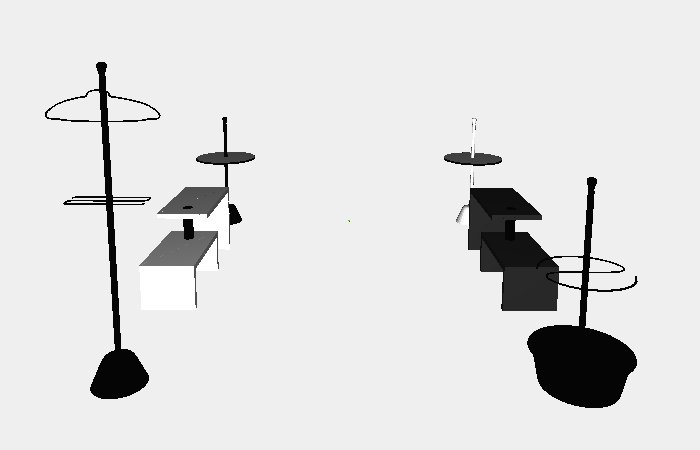
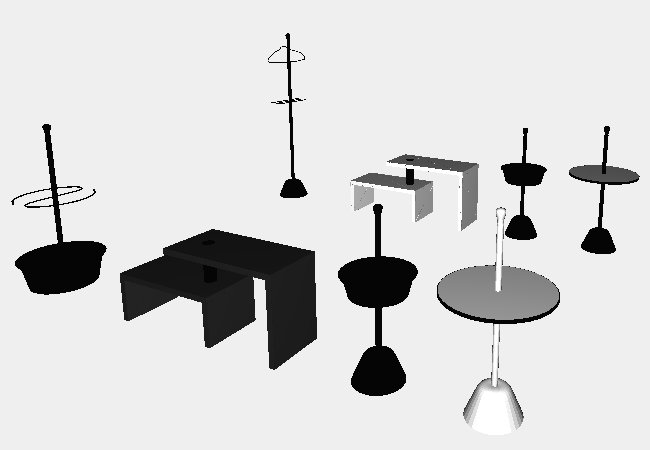
complete project

Changed region(s): [[0.5231, 0.28, 0.9846, 0.9644], [0.0, 0.1244, 0.4923, 0.9022], [0.4308, 0.0622, 0.4923, 0.4667]]

diff --git a/zanotta.html b/zanotta.html
@@ -34,14 +34,13 @@
                 <h3>Fantastic 12</h3>
                   <IMG SRC="./images/fantastic12.jpg">
                     <p> A very special family, useful and innovative, timeless, as of the Servi designed by the Castiglioni for Zanotta. A success that continues today.
-                    Among all furniture complements of modern design, the series of the Servi di Achille Castiglioni and PierGiacomo is undoubtedly the most popular. Developed over two decades from 1961, this collection is still very timely. The Milanese designers conceived the series as a functional, minimalist and strong and fit to "serve" domestic spaces but also the public, a modular, removable, modular. Homogeneous in progress. A single polypropylene base, a steel rod that acts as a high or low support and some accessories that hold, carry, contain, report. The colors: black, white and aluminum. The first to be born in '61, by the extraordinary compositional skill of the Castiglioni brothers were the two founders and Servofumo Servopluvio, respectively, a floor ashtray and an umbrella stand essential. With only four pieces, the designers built the two complements: a rod, a base, a curved rod and a pool that acts as a water collection for umbrellas in a bathtub and the ash in the other. They conceived that, as is often the designers who do not find what they need on the market, to furnish the restaurant and brewery Splügenpass of Milan. He followed the Servomuto (design 1974, shelf laminated plastic or rigid polyurethane white or black, with a rod "prehensile"), which was the first to go into production in '75, followed by 80 <A HREF="./servomuto.html">- Servomuto </A> and Servopluvio and then the other of the "family".
-
-                    Zanotta introduced him that year at the Salone del Mobile: few understood it immediately, but then conquered the market.Like the other ten Servants that drew Castiglioni until 1987. Many of these objects have fallen into over the years in the permanent collections of up to 7 museums in the world of design. </p>
+                    Among all furniture complements of modern design, the series of the Servi di Achille Castiglioni and PierGiacomo is undoubtedly the most popular. Developed over two decades from 1961, this collection is still very timely. The Milanese designers conceived the series as a functional, minimalist and strong and fit to "serve" domestic spaces but also the public, a modular, removable, modular. Homogeneous in progress. A single polypropylene base, a steel rod that acts as a high or low support and some accessories that hold, carry, contain, report. The colors: black, white and aluminum. The first to be born in '61, by the extraordinary compositional skill of the Castiglioni brothers were the two founders and Servofumo Servopluvio, respectively, a floor ashtray and an umbrella stand essential. With only four pieces, the designers built the two complements: a rod, a base, a curved rod and a pool that acts as a water collection for umbrellas in a bathtub and the ash in the other. They conceived that, as is often the designers who do not find what they need on the market, to furnish the restaurant and brewery Splügenpass of Milan. He followed the Servomuto (design 1974, shelf laminated plastic or rigid polyurethane white or black, with a rod "prehensile"), which was the first to go into production in '75, followed by 80 <A HREF="./servomuto.html">- Servomuto </A> and <A HREF="./servopluvio.html">- Servopluvio </A> and then the other of the "family".Zanotta introduced him that year at the Salone del Mobile: few understood it immediately, but then conquered the market.Like the other ten Servants that drew Castiglioni until 1987. Many of these objects have fallen into over the years in the permanent collections of up to 7 museums in the world of design. </p>
                   </div>
                   <br/>
                 <div ALIGN="justify">
                 <h3> 3D modelling </h3>
                 <p> I chose to draw some models of the Servi's family: <br/>
+                    <A HREF="./servofumo.html">- Servofumo </A><br/>
                     <A HREF="./servomuto.html">- Servomuto </A> <br/>
                     <A HREF="./servonotte.html">- Servonotte </A>  <br/>
                     <A HREF="./servopluvio.html">- Servopluvio </A> <br/>
@@ -61,6 +60,7 @@
                 <h3>ZANOTTA Design</h3>
                   <p>
                     <A HREF="./basello.html">- Basello </A> <br/>
+                    <A HREF="./servofumo.html">- Servofumo </A> <br/>
                     <A HREF="./servomuto.html">- Servomuto </A> <br/>
                     <A HREF="./servonotte.html">- Servonotte </A>  <br/>
                     <A HREF="./servopluvio.html">- Servopluvio </A> <br/><br/>

diff --git a/servofumo.html b/servofumo.html
@@ -18,7 +18,7 @@
             <div class="inner">
 
               <header>
-                <h1>Servonotte, designed by Achille Castiglioni</h1>
+                <h1>Servofumo, designed by Achille Castiglioni</h1>
                 <h2>Computer Graphics Final Project</h2>
                 <h3>3D modeling by Davide Razzino</h3>
               </header>
@@ -31,28 +31,27 @@
 
               <section id="main_content">
                 <div ALIGN="justify">
-                <h3>Servonotte</h3>
-                  <IMG SRC="./images/ServoNotte.jpg" ALIGN="RIGHT">
-                    <p> Servonotte is part of the Castiglioni Servi family. The clothes stand is designed with a polypropylene base and steel frame, available in the following colours: black, aluminium or white.</p>
+                <h3>Servofumo</h3>
+                  <IMG SRC="./images/servofumo.jpg" ALIGN="RIGHT">
+                    <p> Servofumo is an ashtray which is part of the Castiglioni family of Servi furniture. With a base in black polypropylene or painted aluminium, and black or aluminium colour painted steel support rod and aluminium sand container. The ash-tray has a black or aluminium colour painted steel rhomboid mesh which can be removed to clean the sand. </p>
                   </div>
-                  <br/><br/><br/>
+                  <br/><br/><br/><br/><br/>
                 <div ALIGN="justify">
                 <h3> 3D modelling </h3>
-                <p> I drew the profile of the mast and base with Bezier curves, thus I used the function Rotational Surface to get the entire structure.
-                Very hard was draw the crutches. To do that I made, with Hermite curves, several curved tube placed at suitable. The complex geometry is then obtained by composing the tubes. </p>
+                <p> I drew the profile of the mast, ash-tray and base with Bezier curves, thus I used the function Rotational Surface to get the entire structure. </p>
                 <br/>
                 <h4>Screenshot of the 3D model</h4>
                 <br/>
                 <h5>Python</h5>
-                  <a href="https://github.com/cvdlab-cg/404693/blob/master/final-project/python/servonotte.py"><IMG SRC="./images/Screenshot/python/servonotte.jpg" ALIGN="LEFT"></a>
-                  <a href="https://github.com/cvdlab-cg/404693/blob/master/final-project/python/servonotte.py"><IMG SRC="./images/Screenshot/python/servonotteW.jpg" ALIGN="MIDDLE"></a>
-                  <a href="https://github.com/cvdlab-cg/404693/blob/master/final-project/python/servonotte.py"><IMG SRC="./images/Screenshot/python/servonotteC.jpg" ALIGN="RIGHT"></a>
+                  <a href="https://github.com/cvdlab-cg/404693/blob/master/final-project/python/servofumo.py"><IMG SRC="./images/Screenshot/python/servofumo.jpg" ALIGN="LEFT"></a>
+                  <a href="https://github.com/cvdlab-cg/404693/blob/master/final-project/python/servofumo.py"><IMG SRC="./images/Screenshot/python/servofumoW.jpg"></a>
+                  <a href="https://github.com/cvdlab-cg/404693/blob/master/final-project/python/servofumo.py"><IMG SRC="./images/Screenshot/python/servofumoW1.jpg" ALIGN="RIGHT"></a>
                     <br/><br/>
                 <h5>Javascript</h5>
-                  <a href="https://github.com/cvdlab-cg/404693/blob/master/final-project/javascript/servonotte.js"><IMG SRC="./images/Screenshot/javascript/servonotteUP.jpg"></a>
-                   <a href="https://github.com/cvdlab-cg/404693/blob/master/final-project/javascript/servonotte.js"><IMG SRC="./images/Screenshot/javascript/servonotte.jpg" ALIGN="LEFT"></a>
-                    <a href="https://github.com/cvdlab-cg/404693/blob/master/final-project/javascript/servonotte.js"><IMG SRC="./images/Screenshot/javascript/servonotteL.jpg" ALIGN="RIGHT"></a>
-                <br/><br/>                
+                   <a href="https://github.com/cvdlab-cg/404693/blob/master/final-project/javascript/servofumo.js"><IMG SRC="./images/Screenshot/javascript/servofumo.jpg" ALIGN="LEFT"></a>
+                    <a href="https://github.com/cvdlab-cg/404693/blob/master/final-project/javascript/servofumo.js"><IMG SRC="./images/Screenshot/javascript/servofumoW.jpg"></a>
+                    <a href="https://github.com/cvdlab-cg/404693/blob/master/final-project/javascript/servofumo.js"><IMG SRC="./images/Screenshot/javascript/servofumoUP.jpg" ALIGN="RIGHT"></a>
+                <br/><br/>             
                 <h3>ZANOTTA Design</h3>
                   <p>
                     <A HREF="./basello.html">- Basello </A> <br/>

diff --git a/index.html b/index.html
@@ -54,6 +54,7 @@
                       <p> More information about Zanotta company can be found <A HREF="http://www.zanotta.it/"> here </A></p><br/>
                       For the final project of the course Computational Graphics I chose some models of Zanotta design, designed by Achille Castiglioni: <br/>
                       <A HREF="./basello.html">- Basello </A> <br/>
+                      <A HREF="./servofumo.html">- Servofumo </A> <br/>
                       <A HREF="./servomuto.html">- Servomuto </A> <br/>
                       <A HREF="./servonotte.html">- Servonotte </A>  <br/>
                       <A HREF="./servopluvio.html">- Servopluvio </A> <br/><br/>

diff --git a/basello.html b/basello.html
@@ -54,6 +54,7 @@
                 <h3><a HREF="http://www.zanotta.it/"> ZANOTTA Design</a</h3>
                   <p>
                     <A HREF="./basello.html">- Basello </A> <br/>
+                    <A HREF="./servofumo.html">- Servofumo </A> <br/>
                     <A HREF="./servomuto.html">- Servomuto </A> <br/>
                     <A HREF="./servonotte.html">- Servonotte </A>  <br/>
                     <A HREF="./servopluvio.html">- Servopluvio </A> <br/><br/>

diff --git a/servomuto.html b/servomuto.html
@@ -52,6 +52,7 @@
                 <h3>ZANOTTA Design</h3>
                   <p>
                     <A HREF="./basello.html">- Basello </A> <br/>
+                    <A HREF="./servofumo.html">- Servofumo </A> <br/>
                     <A HREF="./servomuto.html">- Servomuto </A> <br/>
                     <A HREF="./servonotte.html">- Servonotte </A>  <br/>
                     <A HREF="./servopluvio.html">- Servopluvio </A> <br/><br/>

diff --git a/servopluvio.html b/servopluvio.html
@@ -54,6 +54,7 @@
                 <h3>ZANOTTA Design</h3>
                   <p>
                     <A HREF="./basello.html">- Basello </A> <br/>
+                    <A HREF="./servofumo.html">- Servofumo </A> <br/>
                     <A HREF="./servomuto.html">- Servomuto </A> <br/>
                     <A HREF="./servonotte.html">- Servonotte </A>  <br/>
                     <A HREF="./servopluvio.html">- Servopluvio </A> <br/><br/>
